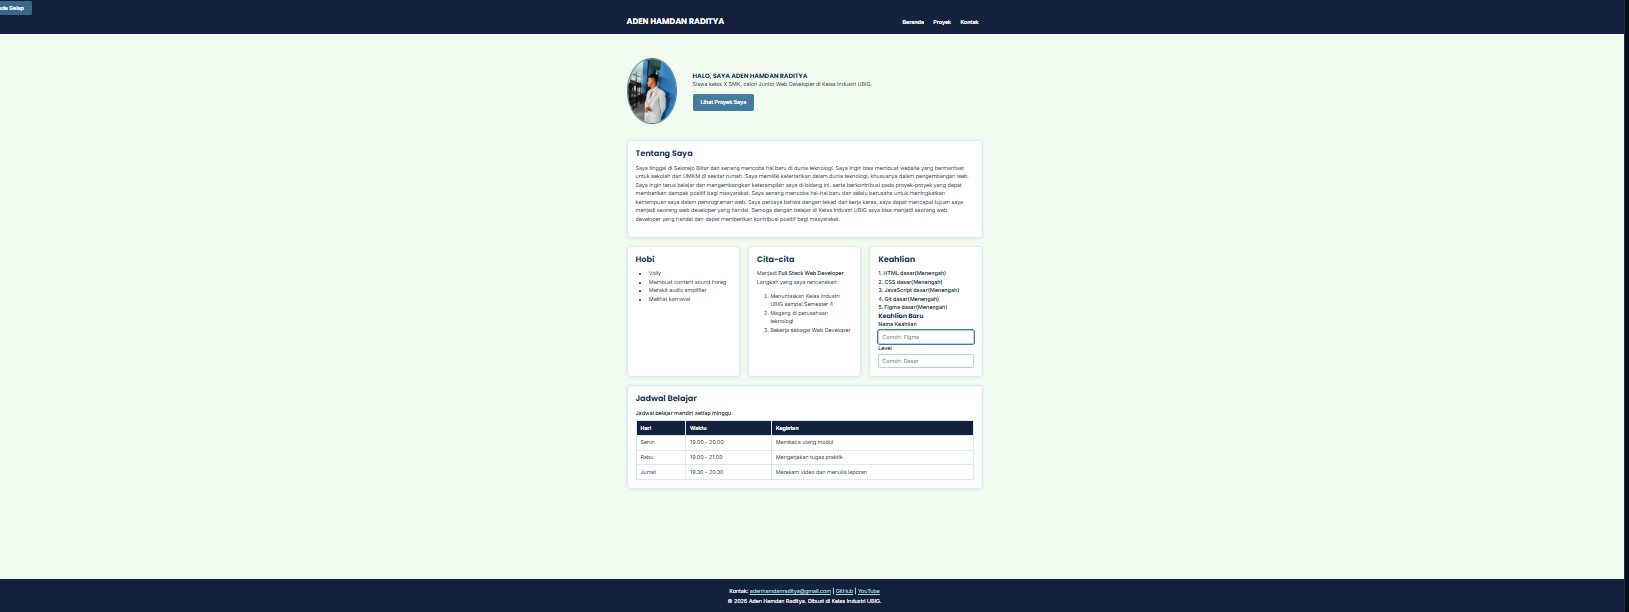
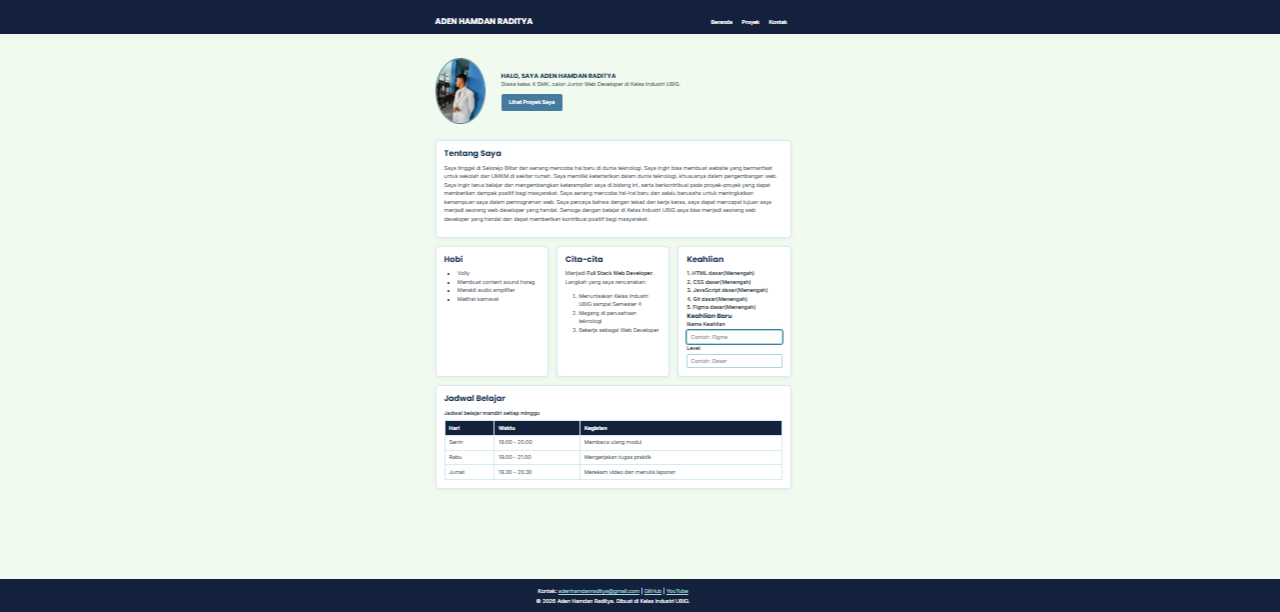
docs: perbarui README Portofolio v2
Closes #2

diff --git a/tugas_rumah/README.md b/tugas_rumah/README.md
@@ -4,7 +4,7 @@ Website portofolio pribadi yang saya buat di Kelas Industri UBIG
 Versi ini adalah **Portofolio v2**: tampil rapi di ponsel, tablet,
 dan laptop, serta interaktif dengan JavaScript.
 ## Tampilan
-[Tampilan beranda Portofolio v2](https://github.com/adenhamdanraditya-spec/tugasmodul7/blob/main/tugas_rumah/img/portofolio%20v2.png?raw=true)
+[Tampilan beranda Portofolio v2] ![alt text](<img/portofolio v2.png>)
 ## Fitur
 - Halaman **Beranda** berisi profil, hobi, cita-cita, jadwal
 belajar, dan daftar keahlian dari `data/keahlian.json` yang bisa
@@ -26,4 +26,4 @@ terbaru dari GitHub API
 - Kontak: Performance ,94 Accessibility 100, Best Practices 96, SEO 90
 ## Tautan
 - Website: https://tugasmodul7-tugasrumah.vercel.app/
-- Dibuat oleh: Andi Pratama, SMK Mitra
+- Dibuat oleh: Aden Hamdan Raditya, SMKS Brantas Karangkates
